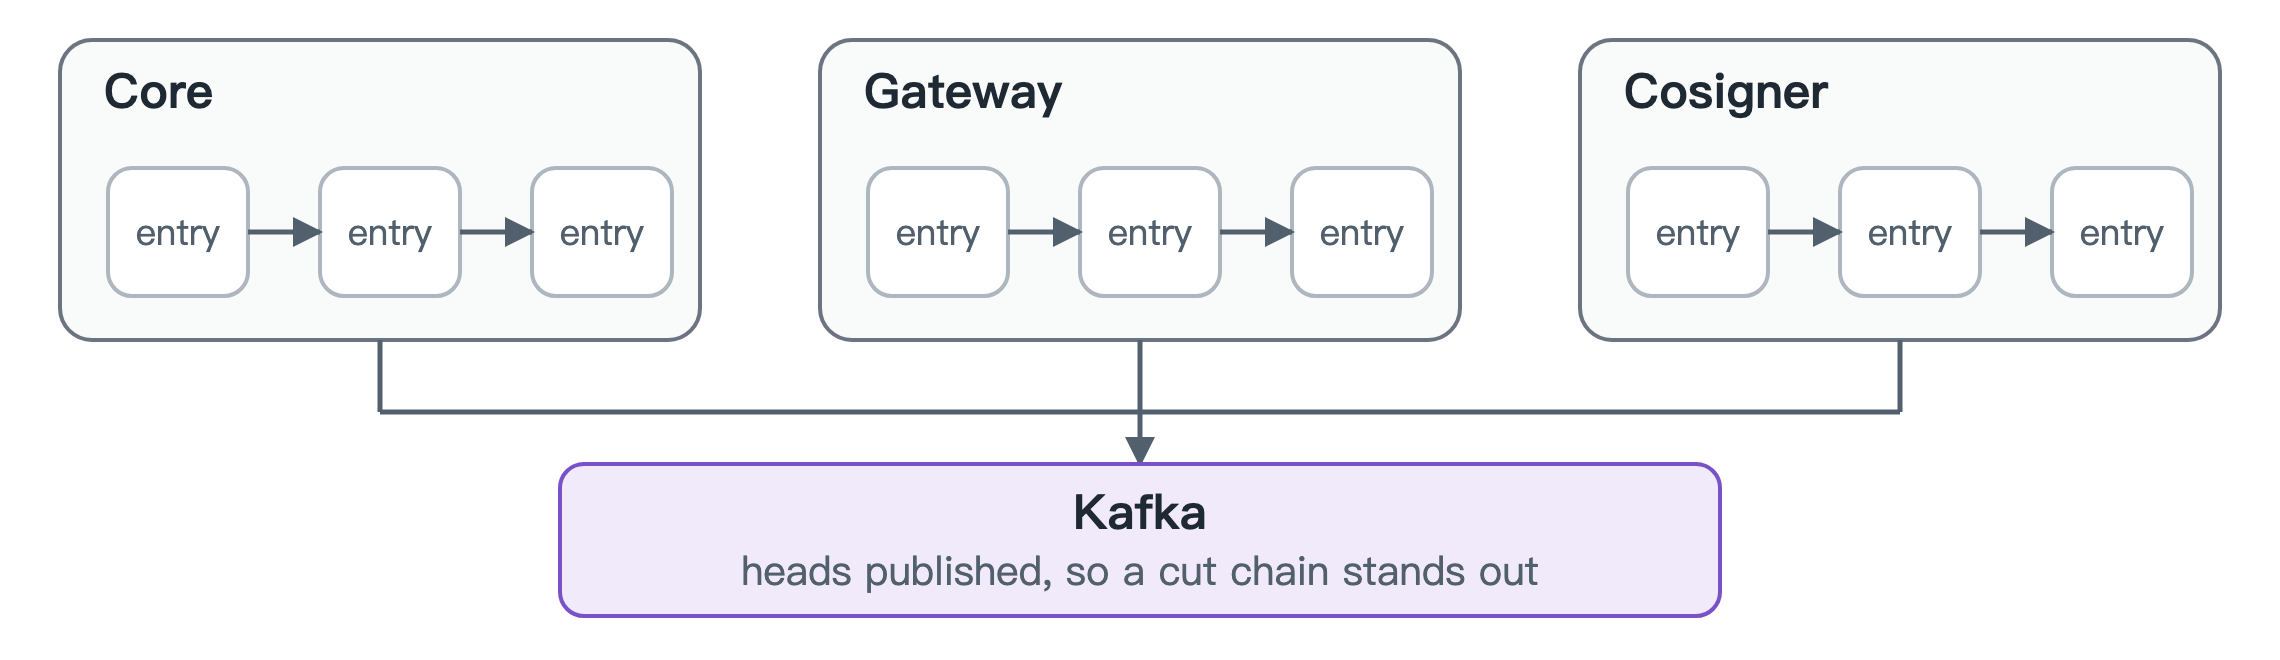
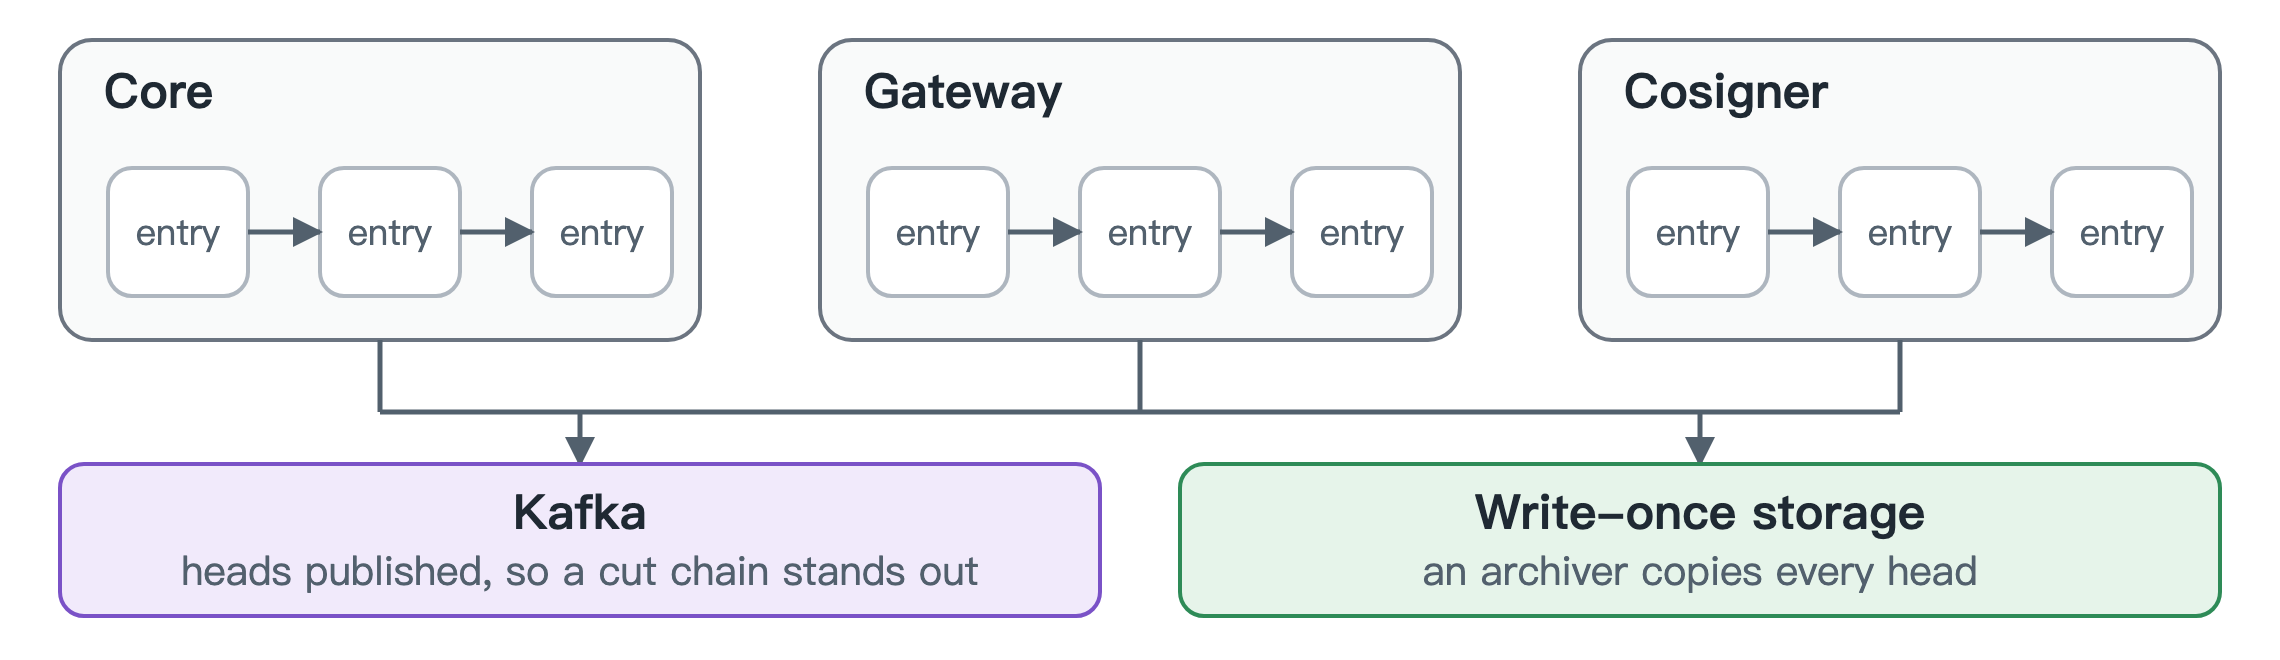
docs diagrams: Bitcoin sending (new), Bitcoin basics, audit archive, identity tile in the architecture grid; en and zh from build.py

Changed region(s): [[0.0311, 0.6364, 0.9965, 0.9394], [0.0311, 0.697, 0.2803, 0.8182], [0.2491, 0.6364, 0.2803, 0.697]]

diff --git a/docs/images/build.py b/docs/images/build.py
@@ -107,6 +107,15 @@ ZH = {
     "Batched sweep": "批量归集", "several addresses, one transaction": "多个地址，一笔交易",
     "Nonce account": "nonce 账户", "withdrawal signs its value": "提现签它的值",
     "First version to land": "最先上链的版本", "uses it up; others are refused": "把它用掉，其余被拒绝",
+    # new in the sweep
+    "Identity": "身份", "login, roles": "登录、角色", "queues jobs only": "只排队任务",
+    "Deposit": "存款", "credited when confirmed": "确认够了才入账",
+    "Send": "发送", "keeps change for a higher fee": "找零里留着加价的余量",
+    "Replace": "替换", "same coins, higher fee": "同样的币、更高手续费",
+    "Child": "子交易", "pulls a stuck send in": "把卡住的交易拉上链",
+    "Cancel": "取消", "coins go back to hot": "币花回热钱包",
+    "Batch": "批量", "many withdrawals, one transaction": "多个提现，一笔交易",
+    "Write-once storage": "一次写入存储", "an archiver copies every head": "归档程序复制每个链头",
     # audit
     "Core": "核心服务", "Cosigner": "Cosigner", "entry": "记录",
     "Kafka": "Kafka", "heads published, so a cut chain stands out": "链头对外发布，截短的链一眼可见",
@@ -220,10 +229,13 @@ def architecture():
     d = tile("operators", 380, H, "Operators", "approve and ask", "gray", right=99)
     d.arrow(281, H / 2, 380, H / 2)
     d.write()
-    tile("api", 760, H, "Core API", "queues jobs, never signs", "blue", right=99).write()
+    d = tile("identity", 380, H, "Identity", "login, roles", "purple", right=99)
+    d.arrow(281, H / 2, 380, H / 2)
+    d.write()
+    tile("api", 380, H, "Core API", "queues jobs only", "blue").write()
 
     d = D("arch-down", 1140, 58)  # from the API (right tile) to three boxes
-    d.line(760, 2, 760, 28)
+    d.line(950, 2, 950, 28)
     d.line(cols[0], 28, cols[2], 28)
     for x in cols:
         d.arrow(x, 28, x, 56)
@@ -327,7 +339,16 @@ def bitcoin():
     d = D("bitcoin", 1140, 312)
     row(d, [("Public key", "derives each address", "blue"), ("Hot coins", "reserve what is needed", "amber"),
             ("Payment", "and change back to hot", "green")], y=20, h=92, gap=60, total=1080)
-    cards(d, [("Stuck transaction", "replace: same coins, higher fee", "amber"), ("Many small coins", "merge into one", "gray")],
+    cards(d, [("Deposit", "credited when confirmed", "purple"), ("Many small coins", "merge into one", "gray")],
+          y=170, h=100, gap=40)
+    d.write()
+
+
+def bitcoin_sending():
+    d = D("bitcoin-sending", 1140, 312)
+    row(d, [("Send", "keeps change for a higher fee", "amber"), ("Replace", "same coins, higher fee", "amber"),
+            ("Child", "pulls a stuck send in", "green")], y=20, h=92, gap=60, total=1080)
+    cards(d, [("Cancel", "coins go back to hot", "gray"), ("Batch", "many withdrawals, one transaction", "blue")],
           y=170, h=100, gap=40)
     d.write()
 
@@ -365,8 +386,10 @@ def audit():
     for x in gx:
         d.line(x + 160, 170, x + 160, 206)
     d.line(190, 206, 950, 206)
-    d.arrow(570, 206, 570, 232)
-    d.box(280, 232, 580, 76, "Kafka", "heads published, so a cut chain stands out", "purple")
+    d.arrow(290, 206, 290, 232)
+    d.arrow(850, 206, 850, 232)
+    d.box(30, 232, 520, 76, "Kafka", "heads published, so a cut chain stands out", "purple")
+    d.box(590, 232, 520, 76, "Write-once storage", "an archiver copies every head", "green")
     d.write()
 
 
@@ -381,7 +404,7 @@ def testing():
 
 
 def build_all():
-    for f in (flow, architecture, signing_zone, ledger, workflows, mpc, tiers, evm, bitcoin, solana, identity, audit, testing):
+    for f in (flow, architecture, signing_zone, ledger, workflows, mpc, tiers, evm, bitcoin, bitcoin_sending, solana, identity, audit, testing):
         f()
 
 

diff --git a/docs/bitcoin.md b/docs/bitcoin.md
@@ -4,7 +4,7 @@
 
 Bitcoin has no balances, only coins (UTXOs). Paying is like handing over notes and getting change: a transaction names the exact coins it spends. How a send gets confirmed is on [its own page](bitcoin-sending.md).
 
-<p align="center"><img src="images/bitcoin.png" width="60%" alt="Customer addresses come from a public key. A withdrawal spends chosen coins and returns change to the hot wallet. Many small coins are merged by consolidation."></p>
+<p align="center"><img src="images/bitcoin.png" width="60%" alt="Customer addresses come from a public key. Deposits are credited when confirmed. A withdrawal spends chosen coins and returns change to the hot wallet. Many small coins are merged by consolidation."></p>
 
 ## Addresses come from a public key
 The core holds the account's extended public key and derives each customer's address on its own, without asking the signers. A test proves the address matches the key the parties derive. A deposit is credited only after enough confirmations. If the chain reorganises deeper than that, scanning stops with an alert, credits stay, and an operator decides.

diff --git a/docs/audit.md b/docs/audit.md
@@ -4,7 +4,7 @@
 
 The audit trail records every decision so it can't be quietly changed later. Each line carries a fingerprint of the line above, like a numbered ledger with each page stamped from the last: tear one out and the stamps stop matching.
 
-<p align="center"><img src="images/audit.png" width="60%" alt="Each trust zone keeps its own hash chain. Each chain publishes its head to Kafka, so a shortened or rewritten chain no longer matches."></p>
+<p align="center"><img src="images/audit.png" width="60%" alt="Each trust zone keeps its own hash chain. Each chain publishes its head to Kafka, and an archiver copies it into write-once storage, so a shortened or rewritten chain no longer matches."></p>
 
 ## One chain per trust zone
 The core, the gateway and the cosigner each keep their own chain in their own database, which refuses edits, deletes and truncation. The gateway and cosigner write each decision in the same transaction as the decision itself: if the record can't be written, nothing is signed. Their chains keep working while the core is down.

diff --git a/docs/zh/bitcoin.md b/docs/zh/bitcoin.md
@@ -4,7 +4,7 @@
 
 Bitcoin 没有余额，只有一枚枚币（UTXO）。付款像递出整张钞票再收回找零：每笔交易都要点名花掉哪几枚币。交易怎么才能上链，见[单独的一页](bitcoin-sending.md)。
 
-<p align="center"><img src="../images/zh/bitcoin.png" width="60%" alt="客户地址由一个公钥推出。提现花掉选定的币，找零回到热钱包。零碎的小币用合并（consolidation）并成一枚。"></p>
+<p align="center"><img src="../images/zh/bitcoin.png" width="60%" alt="客户地址由一个公钥推出。存款确认够了才入账。提现花掉选定的币，找零回到热钱包。零碎的小币用合并（consolidation）并成一枚。"></p>
 
 ## 地址由公钥推出
 核心服务持有账户的扩展公钥（xpub），自己推出每个客户的地址，不用问签名方。测试证明这个地址和各方推出的密钥一致。存款要等足够的确认数才入账；链重组得比这更深时，扫描会停下并报警，已入账的保留，由运维决定。

diff --git a/docs/zh/audit.md b/docs/zh/audit.md
@@ -4,7 +4,7 @@
 
 审计记录会把每个决定都记下来，事后没法悄悄改。每一行都带着上一行的指纹，就像每页盖着上一页印章的编号账本：撕掉一页，印章就对不上。
 
-<p align="center"><img src="../images/zh/audit.png" width="60%" alt="每个信任区各有一条哈希链。每条链把链头发布到 Kafka，所以被截短或改写的链会和已发布的链头对不上。"></p>
+<p align="center"><img src="../images/zh/audit.png" width="60%" alt="每个信任区各有一条哈希链。每条链把链头发布到 Kafka，归档程序再把它复制进一次写入存储，所以被截短或改写的链会和已发布的链头对不上。"></p>
 
 ## 每个信任区一条链
 核心服务、网关和 cosigner 各自在自己的数据库里维护一条链，数据库会拒绝修改、删除和清空。网关和 cosigner 把每个决定和决定本身写进同一个事务：记录写不进去，就什么都不签。核心服务宕机时，它们的链照常运行。

diff --git a/README.zh-CN.md b/README.zh-CN.md
@@ -14,7 +14,7 @@
 ## 架构
 
 <p align="center">
-<img src="docs/images/zh/arch-operators.png" width="24%" alt="运营和审批人"><img src="docs/images/zh/arch-api.png" width="48%" alt="核心 API"><br/>
+<img src="docs/images/zh/arch-operators.png" width="24%" alt="运营和审批人"><a href="docs/zh/identity.md"><img src="docs/images/zh/arch-identity.png" width="24%" alt="身份"></a><img src="docs/images/zh/arch-api.png" width="24%" alt="核心 API"><br/>
 <img src="docs/images/zh/arch-down.png" width="72%" alt=""><br/>
 <a href="docs/zh/workflows.md"><img src="docs/images/zh/arch-workflows.png" width="24%" alt="工作流"></a><a href="docs/zh/ledger.md"><img src="docs/images/zh/arch-ledger.png" width="24%" alt="账本"></a><a href="docs/zh/audit.md"><img src="docs/images/zh/arch-audit.png" width="24%" alt="审计记录"></a><br/>
 <img src="docs/images/zh/arch-merge.png" width="72%" alt=""><br/>

diff --git a/README.md b/README.md
@@ -14,7 +14,7 @@ Two rules carry the design:
 ## Architecture
 
 <p align="center">
-<img src="docs/images/arch-operators.png" width="24%" alt="Operators and approvers"><img src="docs/images/arch-api.png" width="48%" alt="Core API"><br/>
+<img src="docs/images/arch-operators.png" width="24%" alt="Operators and approvers"><a href="docs/identity.md"><img src="docs/images/arch-identity.png" width="24%" alt="Identity"></a><img src="docs/images/arch-api.png" width="24%" alt="Core API"><br/>
 <img src="docs/images/arch-down.png" width="72%" alt=""><br/>
 <a href="docs/workflows.md"><img src="docs/images/arch-workflows.png" width="24%" alt="Workflows"></a><a href="docs/ledger.md"><img src="docs/images/arch-ledger.png" width="24%" alt="Ledger"></a><a href="docs/audit.md"><img src="docs/images/arch-audit.png" width="24%" alt="Audit trail"></a><br/>
 <img src="docs/images/arch-merge.png" width="72%" alt=""><br/>
